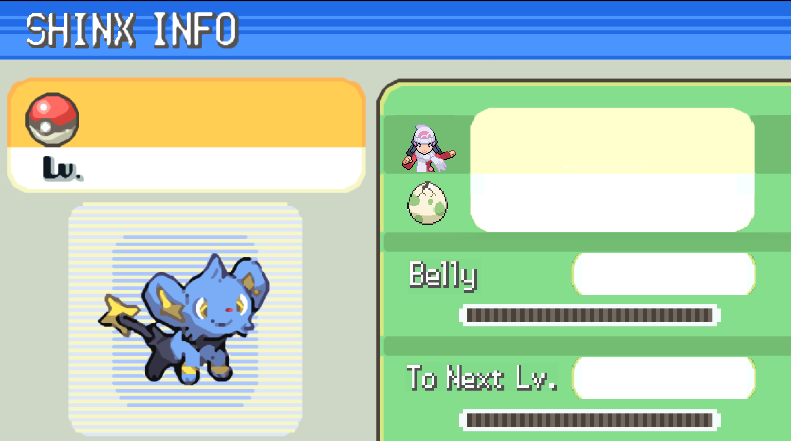
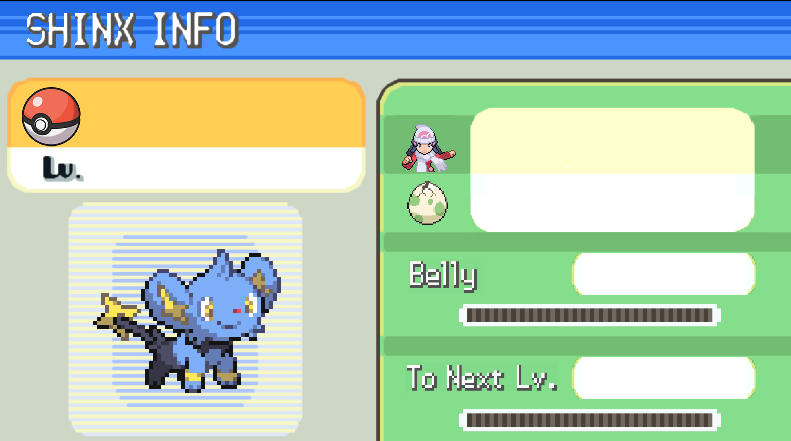
Rework some sprite assets

Changed region(s): [[0.1214, 0.5601, 0.3641, 0.8844], [0.0303, 0.1769, 0.1214, 0.3537]]

diff --git a/commands/virtual_simulation/shinx.js b/commands/virtual_simulation/shinx.js
@@ -100,7 +100,7 @@ export default async (interaction, messageFlags) => {
             ctx.drawImage(img, 0, 0);
             if (shinx.shiny) {
                 const cap = await Canvas.loadImage('./assets/shinx/shiny.png');
-                ctx.drawImage(cap, 97, 202);
+                ctx.drawImage(cap, 93, 210);
             };
             img = await Canvas.loadImage('./assets/shinx/owner.png');
             ctx.drawImage(img, 59 * !is_user_male, 71, 59 - 5 * !is_user_male, 49, 403, 125, 59 - 5 * !is_user_male, 49);
